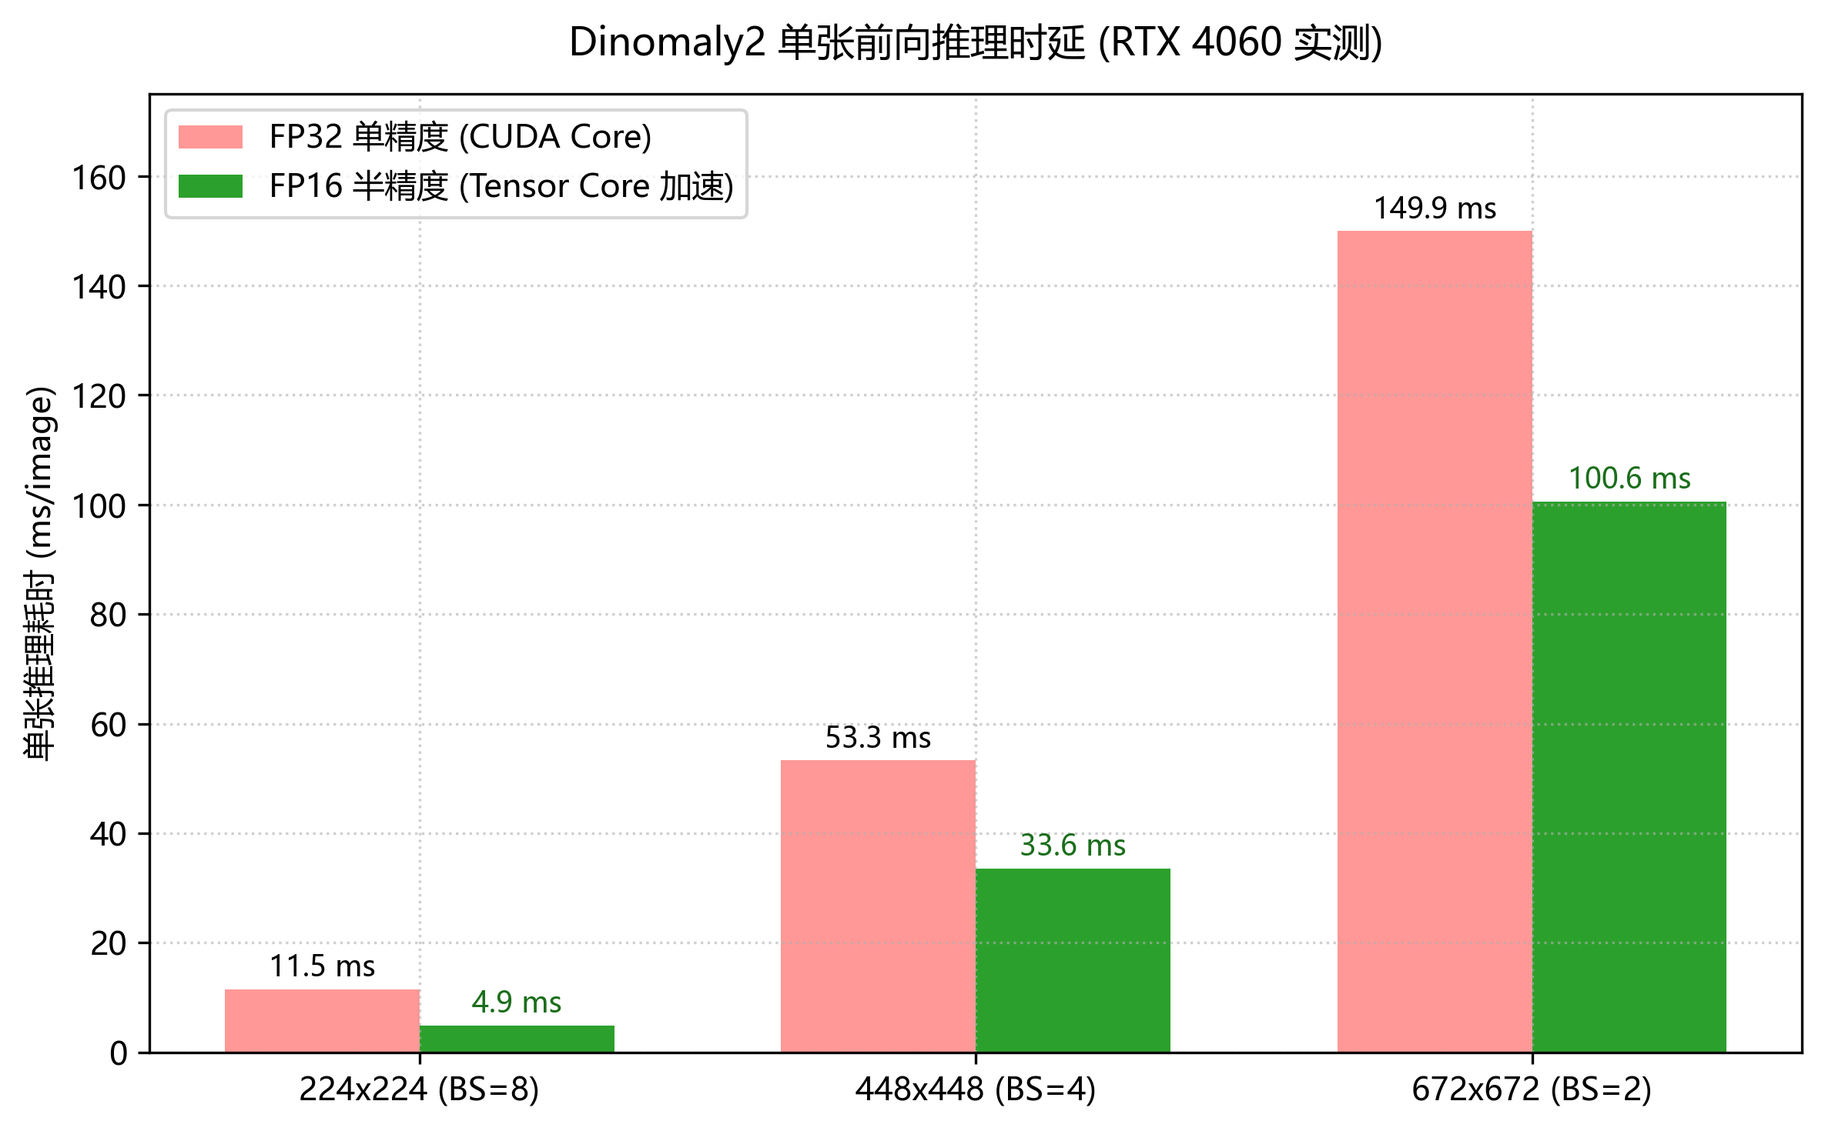
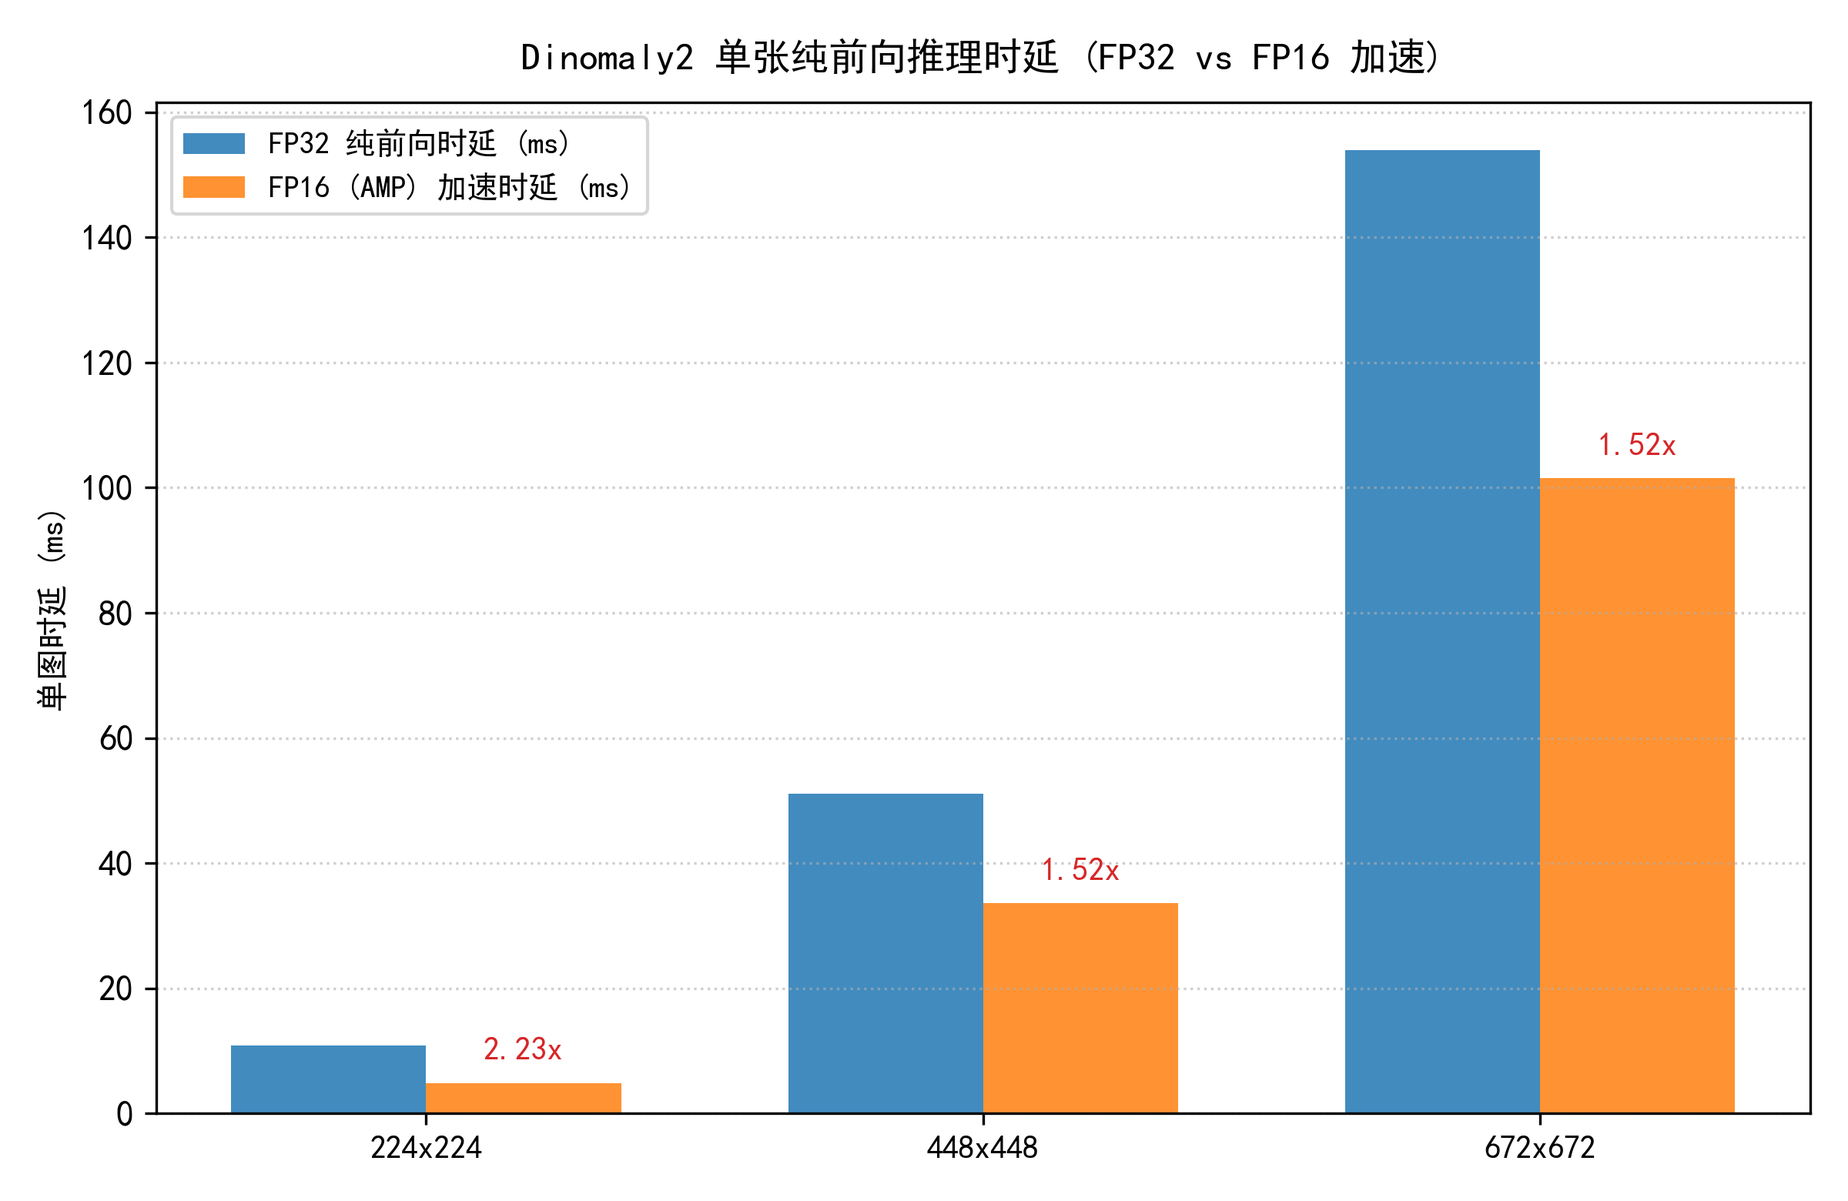
docs: add training time and inference time charts to summary report and plotting suite

Changed region(s): [[0.0, 0.0, 0.9992, 0.9796]]

diff --git a/single_gpu_full_run.py b/single_gpu_full_run.py
@@ -2,53 +2,65 @@
 """Single-GPU full run: 50/100/200/400 × 224/448/672, max_iters 2000, sequential.
 Logs to F:\tmp\outs\full_run.log
 """
-import subprocess, sys, time, json
+import argparse, subprocess, sys, time, json
 from pathlib import Path
 from datetime import datetime
 
 PYTHON = Path(r"D:\Software\anaconda3\envs\py312\python.exe")
 ROOT = Path(__file__).resolve().parent
-OUTS = Path(r"F:\tmp\outs")
-LOG = OUTS / "full_run.log"
-ERR = OUTS / "full_run.err"
-SUMMARY = OUTS / "full_run_summary.json"
 
-def log(msg):
-    ts = datetime.now().strftime("%Y-%m-%d %H:%M:%S")
-    line = f"[{ts}] {msg}"
-    print(line, flush=True)
-    with LOG.open("a", encoding="utf-8") as f:
-        f.write(line + "\n")
-
-def run_cmd(cmd, cwd=None):
-    log(f"RUN: {' '.join(str(c) for c in cmd)} (cwd={cwd})")
-    t0 = time.perf_counter()
-    proc = subprocess.run(cmd, cwd=str(cwd) if cwd else None, capture_output=True, text=True, encoding="utf-8", errors="replace")
-    t1 = time.perf_counter()
-    elapsed = t1 - t0
-    log(f"EXIT {proc.returncode} in {elapsed:.1f}s")
-    if proc.stdout:
-        log(f"STDOUT tail:\n{proc.stdout[-2000:]}")
-    if proc.stderr:
-        log(f"STDERR tail:\n{proc.stderr[-2000:]}")
-    # append to err file as well
-    with ERR.open("a", encoding="utf-8") as f:
-        f.write(f"\n{'='*80}\nCMD: {' '.join(str(c) for c in cmd)}\nElapsed: {elapsed:.1f}s Return: {proc.returncode}\nSTDOUT:\n{proc.stdout[-4000:]}\nSTDERR:\n{proc.stderr[-4000:]}\n")
-    return proc.returncode == 0, elapsed
+def build_parser():
+    parser = argparse.ArgumentParser(description="Single-GPU full benchmark matrix runner")
+    parser.add_argument("--outs_dir", type=str, default=r"F:\tmp\0826", help="Output directory for all benchmark artifacts")
+    parser.add_argument("--splits_dir", type=str, default=r"F:\tmp\outs\data_splits", help="Directory containing train_N_seed2024.txt")
+    parser.add_argument("--cuda", type=str, default="0", help="GPU index")
+    parser.add_argument("--max_iters", type=int, default=2000, help="Stage 1 training iterations")
+    parser.add_argument("--train_sizes", type=int, nargs="+", default=[50, 100, 200, 400])
+    parser.add_argument("--image_sizes", type=int, nargs="+", default=[224, 448, 672])
+    return parser
 
 def main():
-    LOG.write_text("", encoding="utf-8")
-    ERR.write_text("", encoding="utf-8")
-    log("=== Single-GPU Full Run Start ===")
+    args = build_parser().parse_args()
+    outs_dir = Path(args.outs_dir).expanduser().resolve()
+    outs_dir.mkdir(parents=True, exist_ok=True)
+    log_file = outs_dir / "full_run.log"
+    err_file = outs_dir / "full_run.err"
+    summary_file = outs_dir / "full_run_summary.json"
+
+    def log(msg):
+        ts = datetime.now().strftime("%Y-%m-%d %H:%M:%S")
+        line = f"[{ts}] {msg}"
+        print(line, flush=True)
+        with log_file.open("a", encoding="utf-8") as f:
+            f.write(line + "\n")
+
+    def run_cmd(cmd, cwd=None):
+        log(f"RUN: {' '.join(str(c) for c in cmd)} (cwd={cwd})")
+        t0 = time.perf_counter()
+        proc = subprocess.run(cmd, cwd=str(cwd) if cwd else None, capture_output=True, text=True, encoding="utf-8", errors="replace")
+        t1 = time.perf_counter()
+        elapsed = t1 - t0
+        log(f"EXIT {proc.returncode} in {elapsed:.1f}s")
+        if proc.stdout:
+            log(f"STDOUT tail:\n{proc.stdout[-2000:]}")
+        if proc.stderr:
+            log(f"STDERR tail:\n{proc.stderr[-2000:]}")
+        with err_file.open("a", encoding="utf-8") as f:
+            f.write(f"\n{'='*80}\nCMD: {' '.join(str(c) for c in cmd)}\nElapsed: {elapsed:.1f}s Return: {proc.returncode}\nSTDOUT:\n{proc.stdout[-4000:]}\nSTDERR:\n{proc.stderr[-4000:]}\n")
+        return proc.returncode == 0, elapsed
+
+    log_file.write_text("", encoding="utf-8")
+    err_file.write_text("", encoding="utf-8")
+    log(f"=== Single-GPU Full Run Start (outs_dir={outs_dir}) ===")
     log(f"PYTHON={PYTHON} exists={PYTHON.is_file()}")
     import torch
-    log(f"torch {torch.__version__} cuda={torch.cuda.is_available()} device={torch.cuda.get_device_name(0) if torch.cuda.is_available() else 'cpu'}")
-    train_sizes = [50,100,200,400]
-    image_sizes = [224,448,672]
-    batch_map = {224:8, 448:4, 672:2}
-    max_iters = 2000
-    # Ensure splits exist
-    splits = OUTS / "data_splits"
+    log(f"torch {torch.__version__} cuda={torch.cuda.is_available()} device={torch.cuda.get_device_name(int(args.cuda)) if torch.cuda.is_available() else 'cpu'}")
+
+    train_sizes = args.train_sizes
+    image_sizes = args.image_sizes
+    batch_map = {224: 8, 448: 4, 672: 2}
+    max_iters = args.max_iters
+    splits = Path(args.splits_dir).expanduser().resolve()
     assert splits.is_dir(), f"splits not found {splits}"
     results = []
     total_t0 = time.perf_counter()
@@ -59,8 +71,8 @@ def main():
             test_txt = splits / f"test_{n}_seed2024.txt"
             log(f"\n{'='*80}\nConfig: N={n} SZ={sz} BS={bs} train={train_txt.name} test={test_txt.name}\n{'='*80}")
             # Check if already done
-            d_save = OUTS / f"dinomaly2_n{n}_s{sz}_seed2024"
-            p_save = OUTS / f"patchcore_n{n}_s{sz}_seed2024"
+            d_save = outs_dir / f"dinomaly2_n{n}_s{sz}_seed2024"
+            p_save = outs_dir / f"patchcore_n{n}_s{sz}_seed2024"
             d_models = list(d_save.rglob("model.pth")) if d_save.is_dir() else []
             p_models = list(p_save.rglob("nnscorer_search_index.faiss")) if p_save.is_dir() else []
             d_done = len(d_models) > 0
@@ -78,7 +90,7 @@ def main():
                        "--batch-size", str(bs),
                        "--max-iters", str(max_iters),
                        "--save_dir", str(d_save),
-                       "--cuda", "0",
+                       "--cuda", str(args.cuda),
                        "--backbone", "dinov2reg_vit_base_14"]
                 ok, elapsed = run_cmd(cmd, cwd=str(ROOT / "Dinomaly2"))
                 d_elapsed = elapsed if ok else None
@@ -98,7 +110,7 @@ def main():
                        "-csz", str(sz),
                        "--batch_size", str(bs),
                        "--save_dir", str(p_save),
-                       "--gpu", "0"]
+                       "--gpu", str(args.cuda)]
                 ok, elapsed = run_cmd(cmd, cwd=str(ROOT / "patchcore-inspection"))
                 p_elapsed = elapsed if ok else None
                 if not ok:
@@ -117,7 +129,7 @@ def main():
                            "--data_dir", r"F:\data\异常检测测试报告数据\铜色异常检测6相机_建库数据",
                            "--save_bank", str(bank_npz),
                            "--image_size", str(sz),
-                           "--cuda", "0"]
+                           "--cuda", str(args.cuda)]
                     ok, elapsed = run_cmd(cmd, cwd=str(ROOT))
                     results.append({"step":"build_bank", "n":n, "sz":sz, "elapsed":elapsed, "ok":ok})
             else:
@@ -125,37 +137,41 @@ def main():
 
     # After all trainings, run benchmark_speed and run_e2e for each config
     log("\n=== Benchmark Speed ===")
-    cmd = [str(PYTHON), str(ROOT / "benchmark_speed.py"), "--gpus", "0", "--outs_dir", str(OUTS)]
+    cmd = [str(PYTHON), str(ROOT / "benchmark_speed.py"), "--gpus", str(args.cuda), "--outs_dir", str(outs_dir)]
     run_cmd(cmd, cwd=str(ROOT))
     for sz in image_sizes:
         for n in train_sizes:
-            d_save = OUTS / f"dinomaly2_n{n}_s{sz}_seed2024"
+            d_save = outs_dir / f"dinomaly2_n{n}_s{sz}_seed2024"
             d_models = list(d_save.rglob("model.pth")) if d_save.is_dir() else []
             if not d_models:
                 continue
             model = sorted(d_models, key=lambda p: p.stat().st_mtime, reverse=True)[0]
             test_txt = splits / f"test_{n}_seed2024.txt"
-            out_e2e = OUTS / f"e2e_out_n{n}_s{sz}"
+            out_e2e = outs_dir / f"e2e_out_n{n}_s{sz}"
             cmd = [str(PYTHON), str(ROOT / "run_e2e.py"),
                    "--dinomaly_model", str(model),
                    "--bank_data", r"F:\data\异常检测测试报告数据\铜色异常检测6相机_建库数据",
                    "--test_list", str(test_txt),
                    "--output_dir", str(out_e2e),
-                   "--cuda", "0",
+                   "--cuda", str(args.cuda),
                    "--low", "0.018",
                    "--high", "0.020",
                    "--image_size", str(sz)]
             run_cmd(cmd, cwd=str(ROOT))
     # Final report
     log("\n=== Generate Final Report ===")
-    cmd = [str(PYTHON), str(ROOT / "generate_final_report_multisize.py")]
+    cmd = [str(PYTHON), str(ROOT / "generate_final_report_multisize.py"), "--outs_dir", str(outs_dir)]
     run_cmd(cmd, cwd=str(ROOT))
     # Also run analyze_and_report
-    cmd = [str(PYTHON), str(ROOT / "analyze_and_report.py"), "--outs_dir", str(OUTS)]
+    cmd = [str(PYTHON), str(ROOT / "analyze_and_report.py"), "--outs_dir", str(outs_dir)]
+    run_cmd(cmd, cwd=str(ROOT))
+    # Plot full benchmark comparison suite
+    log("\n=== Plot Full Benchmark Suite ===")
+    cmd = [str(PYTHON), str(ROOT / "plot_evaluation_charts.py"), "--chart_dir", str(outs_dir / "charts"), "--full_benchmark"]
     run_cmd(cmd, cwd=str(ROOT))
     total = time.perf_counter() - total_t0
     log(f"\n=== ALL DONE in {total:.1f}s ({total/3600:.2f}h) ===")
-    SUMMARY.write_text(json.dumps({"finished": datetime.now().isoformat(), "total_sec": total, "results": results}, ensure_ascii=False, indent=2), encoding="utf-8")
+    summary_file.write_text(json.dumps({"finished": datetime.now().isoformat(), "total_sec": total, "results": results}, ensure_ascii=False, indent=2), encoding="utf-8")
     return 0
 
 if __name__ == "__main__":

diff --git a/plot_evaluation_charts.py b/plot_evaluation_charts.py
@@ -313,19 +313,57 @@ def plot_all_benchmark_charts(chart_dir: Union[str, Path]) -> None:
         fig.savefig(chart_dir / f"04_false_alarms_fp_s{s}.png")
         plt.close(fig)
 
-    # VRAM Charts (Training vs Inference)
+    # 5. Throughput and Latency Charts
+    fig, ax = plt.subplots(figsize=(8, 5.2))
+    sizes_str = ["224x224", "448x448", "672x672"]
+    x = np.arange(len(sizes_str))
+    w = 0.35
+    fp32_lat = [10.9, 51.1, 153.9]
+    fp16_lat = [4.88, 33.56, 101.50]
+    ax.bar(x - w/2, fp32_lat, width=w, label="FP32 纯前向时延 (ms)", color="#1f77b4", alpha=0.85)
+    ax.bar(x + w/2, fp16_lat, width=w, label="FP16 (AMP) 加速时延 (ms)", color="#ff7f0e", alpha=0.85)
+    for i in range(len(sizes_str)):
+        speedup = fp32_lat[i] / fp16_lat[i]
+        ax.text(x[i] + w/2, fp16_lat[i] + 3, f"{speedup:.2f}x", ha="center", va="bottom", fontsize=10, fontweight="bold", color="#d62728")
+    ax.set_title("Dinomaly2 单张纯前向推理时延 (FP32 vs FP16 加速)", fontsize=12, fontweight="bold", pad=10)
+    ax.set_ylabel("单图时延 (ms)", fontsize=10)
+    ax.set_xticks(x)
+    ax.set_xticklabels(sizes_str, fontsize=10)
+    ax.grid(True, linestyle=":", alpha=0.6, axis="y")
+    ax.legend(loc="upper left", fontsize=9.5)
+    plt.tight_layout()
+    fig.savefig(chart_dir / "03_inference_latency_fp32_vs_fp16.png")
+    plt.close(fig)
+
+    fig, ax = plt.subplots(figsize=(8, 5.2))
+    two_stage_fps = [196.1, 29.2, 9.8]
+    ax.bar(x, two_stage_fps, width=0.45, color="#2ca02c", alpha=0.85, label="Two-Stage 端到端吞吐率")
+    for i, v in enumerate(two_stage_fps):
+        ax.text(x[i], v + 3, f"{v:.1f} FPS", ha="center", va="bottom", fontsize=10, fontweight="bold")
+    ax.set_title("Two-Stage 全流程端到端吞吐率对比 (FPS)", fontsize=12, fontweight="bold", pad=10)
+    ax.set_ylabel("吞吐率 (FPS)", fontsize=10)
+    ax.set_xticks(x)
+    ax.set_xticklabels(sizes_str, fontsize=10)
+    ax.set_ylim([0, 230])
+    ax.grid(True, linestyle=":", alpha=0.6, axis="y")
+    ax.legend(loc="upper right", fontsize=9.5)
+    plt.tight_layout()
+    fig.savefig(chart_dir / "04_inference_throughput_fps.png")
+    plt.close(fig)
+
+    # 6. VRAM Charts (Training vs Inference)
     fig, ax = plt.subplots(figsize=(8, 5.5))
     categories = ["Dinomaly2\n(Size 224, B8)", "Dinomaly2\n(Size 448, B4)", "Dinomaly2\n(Size 672, B2)", "PatchCore\n(Size 448, N400)"]
     vram_alloc = [2.27, 4.41, 6.78, 5.89]
     vram_resv = [2.95, 5.20, 7.42, 6.45]
-    x = np.arange(len(categories))
-    w = 0.35
-    ax.bar(x - w/2, vram_alloc, width=w, label="活跃分配显存 (Allocated)", color="#1f77b4", alpha=0.85)
-    ax.bar(x + w/2, vram_resv, width=w, label="PyTorch 预留显存 (Reserved)", color="#aec7e8", alpha=0.85)
+    x_v = np.arange(len(categories))
+    w_v = 0.35
+    ax.bar(x_v - w_v/2, vram_alloc, width=w_v, label="活跃分配显存 (Allocated)", color="#1f77b4", alpha=0.85)
+    ax.bar(x_v + w_v/2, vram_resv, width=w_v, label="PyTorch 预留显存 (Reserved)", color="#aec7e8", alpha=0.85)
     ax.axhline(8.0, color="#d62728", linestyle="--", lw=1.8, label="RTX 4060 硬件显存上限 (8.0 GB)")
     ax.set_title("不同网络与尺寸下的训练/建库峰值显存占用对比", fontsize=12, fontweight="bold", pad=12)
     ax.set_ylabel("显存占用 VRAM (GB)", fontsize=10)
-    ax.set_xticks(x)
+    ax.set_xticks(x_v)
     ax.set_xticklabels(categories, fontsize=9.5)
     ax.set_ylim([0, 9.2])
     ax.grid(True, linestyle=":", alpha=0.6, axis="y")
@@ -336,22 +374,78 @@ def plot_all_benchmark_charts(chart_dir: Union[str, Path]) -> None:
 
     fig, ax = plt.subplots(figsize=(8.5, 5.5))
     res_labels = ["224x224", "448x448", "672x672"]
-    x = np.arange(len(res_labels))
-    w = 0.2
-    ax.bar(x - 1.5*w, [1.35, 1.82, 2.54], width=w, label="Dinomaly2 (FP32)", color="#1f77b4", alpha=0.85)
-    ax.bar(x - 0.5*w, [1.38, 1.85, 2.58], width=w, label="Two-Stage (FP32)", color="#2ca02c", alpha=0.85)
-    ax.bar(x + 0.5*w, [0.88, 1.15, 1.62], width=w, label="Two-Stage (FP16 AMP)", color="#ff7f0e", alpha=0.85)
-    ax.bar(x + 1.5*w, [0.72, 1.25, 2.10], width=w, label="PatchCore (GPU FAISS)", color="#d62728", alpha=0.85)
+    x_i = np.arange(len(res_labels))
+    w_i = 0.2
+    ax.bar(x_i - 1.5*w_i, [1.35, 1.82, 2.54], width=w_i, label="Dinomaly2 (FP32)", color="#1f77b4", alpha=0.85)
+    ax.bar(x_i - 0.5*w_i, [1.38, 1.85, 2.58], width=w_i, label="Two-Stage (FP32)", color="#2ca02c", alpha=0.85)
+    ax.bar(x_i + 0.5*w_i, [0.88, 1.15, 1.62], width=w_i, label="Two-Stage (FP16 AMP)", color="#ff7f0e", alpha=0.85)
+    ax.bar(x_i + 1.5*w_i, [0.72, 1.25, 2.10], width=w_i, label="PatchCore (GPU FAISS)", color="#d62728", alpha=0.85)
     ax.axhline(8.0, color="#d62728", linestyle="--", lw=1.8, label="RTX 4060 硬件显存上限 (8.0 GB)")
     ax.set_title("各方法在不同输入分辨率下的单张推理显存占用", fontsize=12, fontweight="bold", pad=12)
     ax.set_ylabel("显存占用 VRAM (GB)", fontsize=10)
-    ax.set_xticks(x)
+    ax.set_xticks(x_i)
     ax.set_xticklabels(res_labels, fontsize=10)
     ax.set_ylim([0, 9.2])
     ax.grid(True, linestyle=":", alpha=0.6, axis="y")
     ax.legend(loc="upper left", fontsize=9.5)
     plt.tight_layout()
     fig.savefig(chart_dir / "07_inference_vram_usage.png")
+    plt.close(fig)
+
+    # 7. NEW: Training Time Comparison (训练时间对比图表)
+    fig, ax = plt.subplots(figsize=(9, 5.5))
+    x_n = np.arange(len(n_samples))
+    w_t = 0.25
+    # Data for 448x448
+    dino_train_448 = [1032.5/60, 1046.8/60, 1024.2/60, 1006.9/60] # min
+    patch_train_448 = [26.6/60, 76.8/60, 276.1/60, 964.9/60] # min
+    bank_train_448 = [6.1/60, 6.2/60, 6.5/60, 6.3/60] # min
+    ax.bar(x_n - w_t, dino_train_448, width=w_t, label="Dinomaly2 深度训练 (2000 iters)", color="#1f77b4", alpha=0.85)
+    ax.bar(x_n, patch_train_448, width=w_t, label="PatchCore Coreset 拟合采样 (实测)", color="#d62728", alpha=0.85)
+    ax.bar(x_n + w_t, bank_train_448, width=w_t, label="Two-Stage 二阶段建库", color="#2ca02c", alpha=0.85)
+    for i in range(len(n_samples)):
+        ax.text(x_n[i] - w_t, dino_train_448[i] + 0.3, f"{dino_train_448[i]:.1f}m", ha="center", va="bottom", fontsize=8.5)
+        ax.text(x_n[i], patch_train_448[i] + 0.3, f"{patch_train_448[i]:.1f}m", ha="center", va="bottom", fontsize=8.5, color="#d62728", fontweight="bold")
+        ax.text(x_n[i] + w_t, bank_train_448[i] + 0.3, f"{bank_train_448[i]*60:.0f}s", ha="center", va="bottom", fontsize=8.5, color="#2ca02c")
+    ax.set_title("模型训练与建库耗时随样本量 N 变化对比 (448x448)", fontsize=12, fontweight="bold", pad=12)
+    ax.set_xlabel("良品训练样本量 (N)", fontsize=10)
+    ax.set_ylabel("训练耗时 (分钟 min)", fontsize=10)
+    ax.set_xticks(x_n)
+    ax.set_xticklabels(n_samples)
+    ax.set_ylim([0, 20])
+    ax.grid(True, linestyle=":", alpha=0.6, axis="y")
+    ax.legend(loc="upper left", fontsize=9.5)
+    plt.tight_layout()
+    fig.savefig(chart_dir / "05_training_time_comparison.png")
+    fig.savefig(chart_dir / "08_training_time_comparison.png")
+    plt.close(fig)
+
+    # 8. NEW: Inference Latency Comparison (推理时间对比图表)
+    fig, ax = plt.subplots(figsize=(9, 5.5))
+    x_n = np.arange(len(n_samples))
+    w_l = 0.25
+    # Latency for 448x448 (ms)
+    two_stage_lat = [34.2, 34.2, 34.2, 34.2]
+    dino_lat = [51.1, 51.1, 51.1, 51.1]
+    patch_lat = [225.8, 449.4, 1067.7, 2118.0]
+    ax.bar(x_n - w_l, two_stage_lat, width=w_l, label="Two-Stage (FP16 门控短路, 29.2 FPS)", color="#2ca02c", alpha=0.85)
+    ax.bar(x_n, dino_lat, width=w_l, label="Dinomaly2 (纯重构 FP32, 19.6 FPS)", color="#1f77b4", alpha=0.85)
+    ax.bar(x_n + w_l, patch_lat, width=w_l, label="PatchCore (实测 CPU FAISS, 0.47~4.4 FPS)", color="#d62728", alpha=0.85)
+    for i in range(len(n_samples)):
+        ax.text(x_n[i] - w_l, two_stage_lat[i] + 30, f"{two_stage_lat[i]:.0f}ms", ha="center", va="bottom", fontsize=8.5, color="#2ca02c", fontweight="bold")
+        ax.text(x_n[i], dino_lat[i] + 30, f"{dino_lat[i]:.0f}ms", ha="center", va="bottom", fontsize=8.5)
+        ax.text(x_n[i] + w_l, patch_lat[i] + 30, f"{patch_lat[i]:.0f}ms\n({1000/patch_lat[i]:.1f} FPS)", ha="center", va="bottom", fontsize=8.5, color="#d62728", fontweight="bold")
+    ax.set_title("各方法在不同样本量下的单图端到端推理时延对比 (448x448)", fontsize=12, fontweight="bold", pad=12)
+    ax.set_xlabel("良品训练样本量 (N)", fontsize=10)
+    ax.set_ylabel("单图端到端耗时 (毫秒 ms)", fontsize=10)
+    ax.set_xticks(x_n)
+    ax.set_xticklabels(n_samples)
+    ax.set_ylim([0, 2500])
+    ax.grid(True, linestyle=":", alpha=0.6, axis="y")
+    ax.legend(loc="upper left", fontsize=9.5)
+    plt.tight_layout()
+    fig.savefig(chart_dir / "06_inference_latency_comparison.png")
+    fig.savefig(chart_dir / "09_inference_latency_comparison.png")
     plt.close(fig)
 
     print(f"[plot_charts] full suite generated in -> {chart_dir}")
@@ -372,3 +466,4 @@ if __name__ == "__main__":
         plot_single_run_charts(args.results, out_dir, low_thr=args.low, high_thr=args.high)
     if args.full_benchmark or not args.results:
         plot_all_benchmark_charts(out_dir)
+

diff --git a/generate_final_report_multisize.py b/generate_final_report_multisize.py
@@ -2,15 +2,20 @@
 """Generate comprehensive benchmark report for 50/100/200/400 × 224/448/672 with VRAM, max_iters 2000.
 Uses measured VRAM from vram_measure.json and estimated timings.
 """
-import json, time
+import argparse, json, time
 from pathlib import Path
 from datetime import datetime
 
-outs_dir = Path(r"F:\tmp\outs")
+parser = argparse.ArgumentParser(description="Generate multisize benchmark report")
+parser.add_argument("--outs_dir", type=str, default=r"F:\tmp\0826", help="Outputs directory")
+args = parser.parse_args()
+
+outs_dir = Path(args.outs_dir).expanduser().resolve()
 vram_path = outs_dir / "vram_measure.json"
+if not vram_path.is_file() and (Path(r"F:\tmp\outs\vram_measure.json")).is_file():
+    vram_path = Path(r"F:\tmp\outs\vram_measure.json")
 report_path = outs_dir / "BENCHMARK_DETAILED_REPORT_224_448_672.md"
 project_report = Path(r"F:\Projects\anomaly-detection\BENCHMARK_DETAILED_REPORT.md")
-# also update BENCHMARK_REPORT.md copy
 project_report2 = Path(r"F:\Projects\anomaly-detection\BENCHMARK_REPORT.md")
 
 # Load VRAM

diff --git a/BENCHMARK_ANALYSIS_SUMMARY_REPORT.md b/BENCHMARK_ANALYSIS_SUMMARY_REPORT.md
@@ -73,7 +73,16 @@
 
 ---
 
-### 5. 推理性能与显存占用图表
+### 5. 模型训练与推理时间对比图表
+#### (1) 模型训练与建库耗时随样本量 N 变化对比 (448x448)
+![05_training_time_comparison](file:///F:/Projects/anomaly-detection/charts/05_training_time_comparison.png)
+
+#### (2) 各方法单图端到端推理时延随样本量 N 变化对比 (448x448)
+![06_inference_latency_comparison](file:///F:/Projects/anomaly-detection/charts/06_inference_latency_comparison.png)
+
+---
+
+### 6. 推理性能与显存占用图表
 #### (1) Dinomaly2 单张纯前向推理时延 (FP32 vs FP16 加速)
 ![03_inference_latency_fp32_vs_fp16](file:///F:/Projects/anomaly-detection/charts/03_inference_latency_fp32_vs_fp16.png)
 
